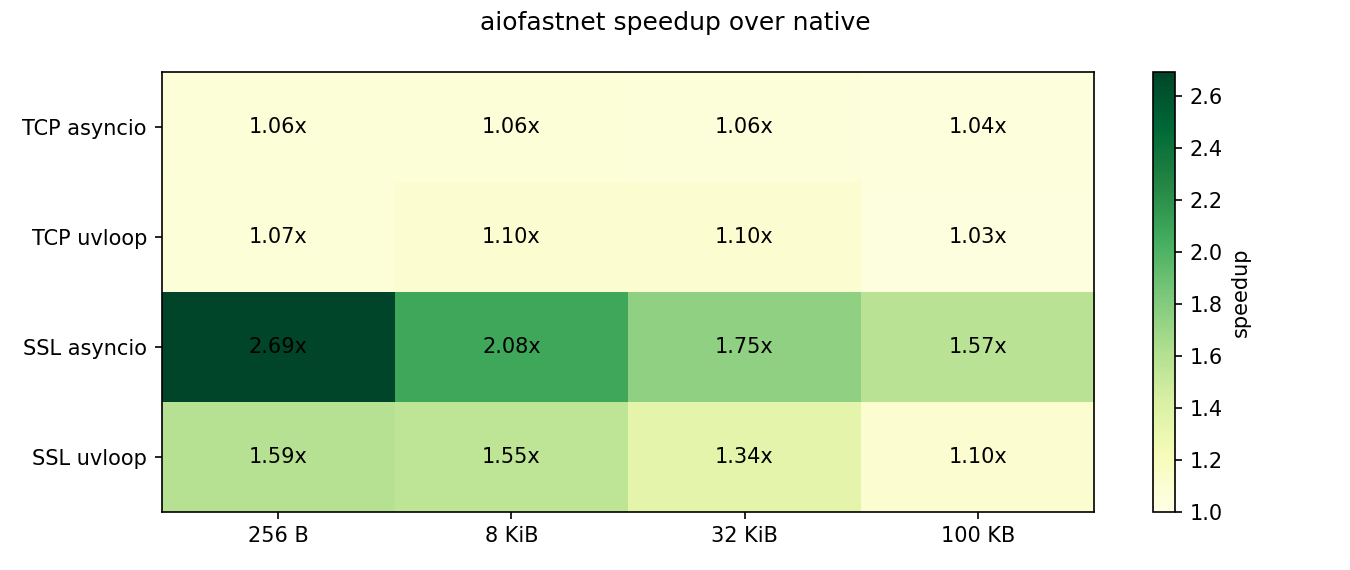
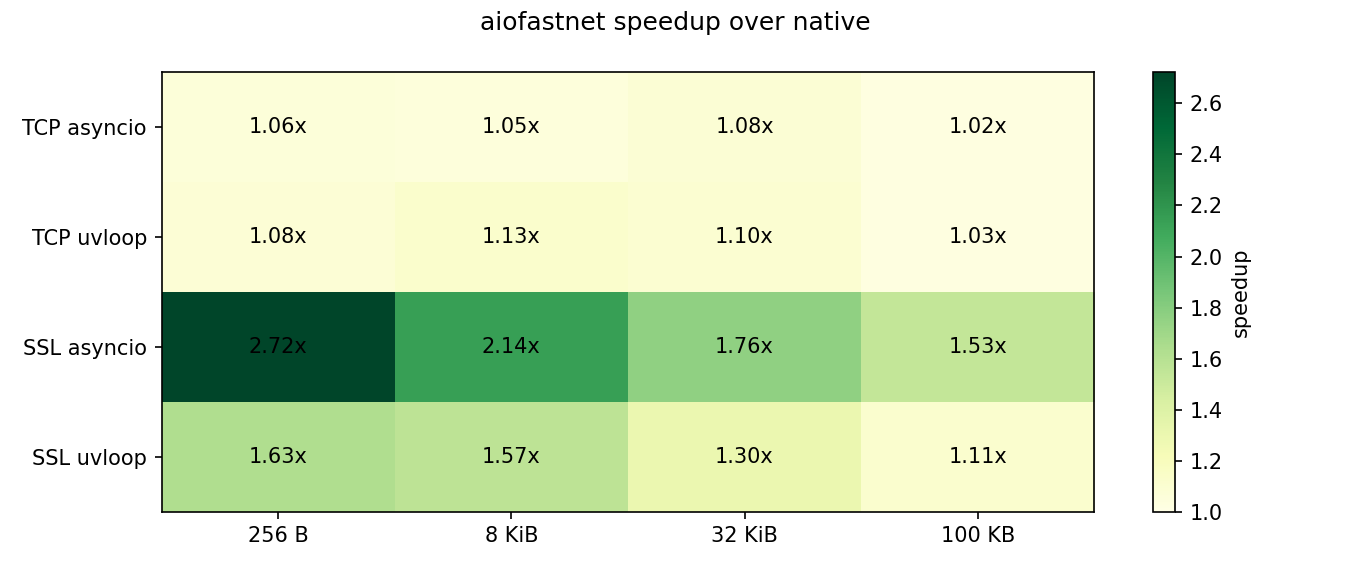
Update charts

diff --git a/examples/benchmark.py b/examples/benchmark.py
@@ -63,7 +63,7 @@ def _plot_results(
 
     fig, axes = _plot_absolute_results(results, transports, msg_sizes, variants)
     fig.suptitle(
-        f"Echo Round-Trip Benchmark | Python {python_version} | aiofastnet-{aiofastnet_version} | "
+        f"Echo Round-Trip Benchmark | Python {python_version}\naiofastnet-{aiofastnet_version} | "
         f"uvloop-{uvloop_version} | SO_SNDBUF={sndbuf_size}"
     )
     fig.tight_layout()
@@ -114,14 +114,14 @@ def _plot_absolute_results(
     msg_sizes: list[int],
     variants: list[str],
 ):
-    rows = len(transports)
-    cols = len(msg_sizes)
-    fig_width = max(6.0, 3.2 * cols)
-    fig_height = max(3.2, 3.0 * rows)
+    rows = len(msg_sizes)
+    cols = len(transports)
+    fig_width = max(6.0, 3.6 * cols)
+    fig_height = max(3.2, 2.8 * rows)
     fig, axes = plt.subplots(rows, cols, figsize=(fig_width, fig_height), squeeze=False)
 
-    for row, transport in enumerate(transports):
-        for col, msg_size in enumerate(msg_sizes):
+    for row, msg_size in enumerate(msg_sizes):
+        for col, transport in enumerate(transports):
             ax = axes[row][col]
             values_by_variant = results.get(transport, {}).get(msg_size, {})
             local_variants = [variant for variant in variants if variant in values_by_variant]

diff --git a/README.md b/README.md
@@ -61,7 +61,7 @@ much of your total runtime is spent in transport/SSL plumbing.
 
 Source: [examples/benchmark.py](https://github.com/tarasko/aiofastnet/blob/master/examples/benchmark.py)
 
-In these benchmarks, `aiofastnet` is up to 2.2x faster than standard
+In these benchmarks, `aiofastnet` is up to 2.6x faster than standard
 `asyncio` and up to 1.6x faster than uvloop for TLS connections.
 
 `aiofastnet` is fully compatible with free-threaded Python builds and scales